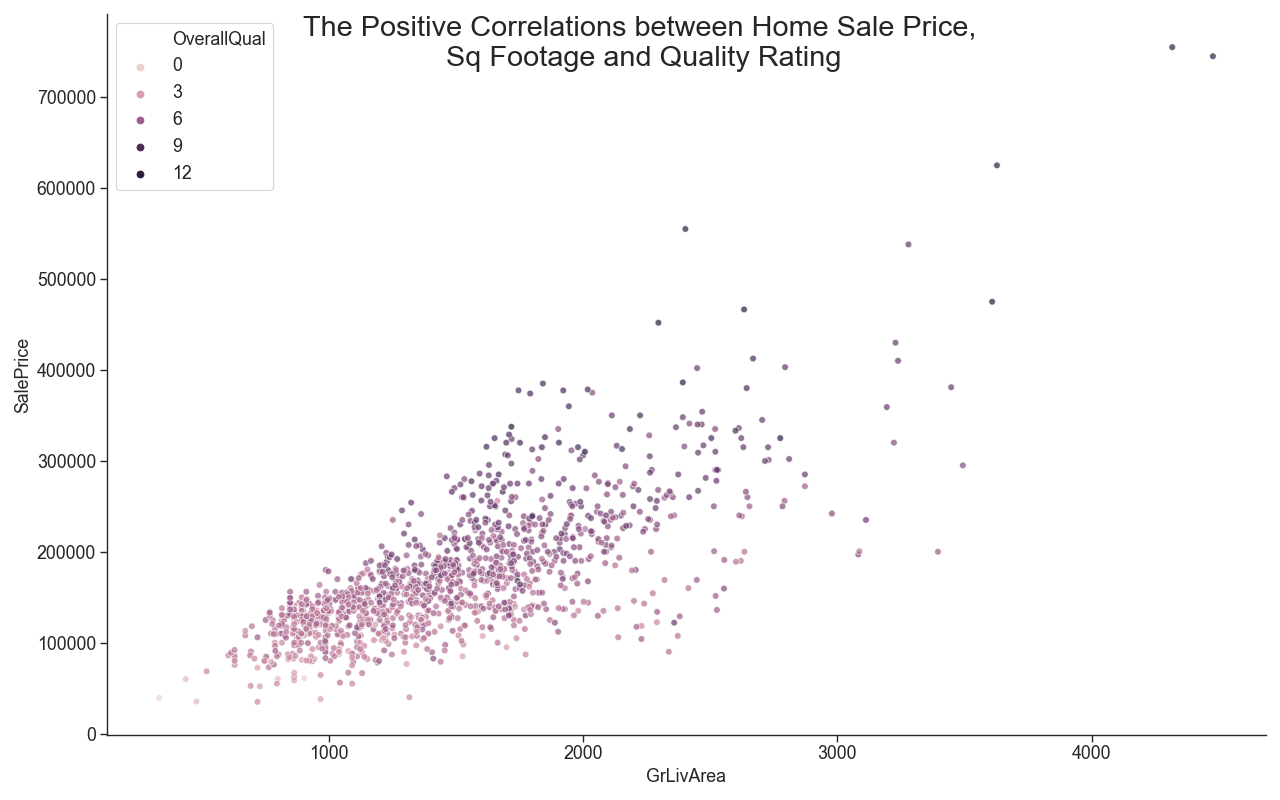
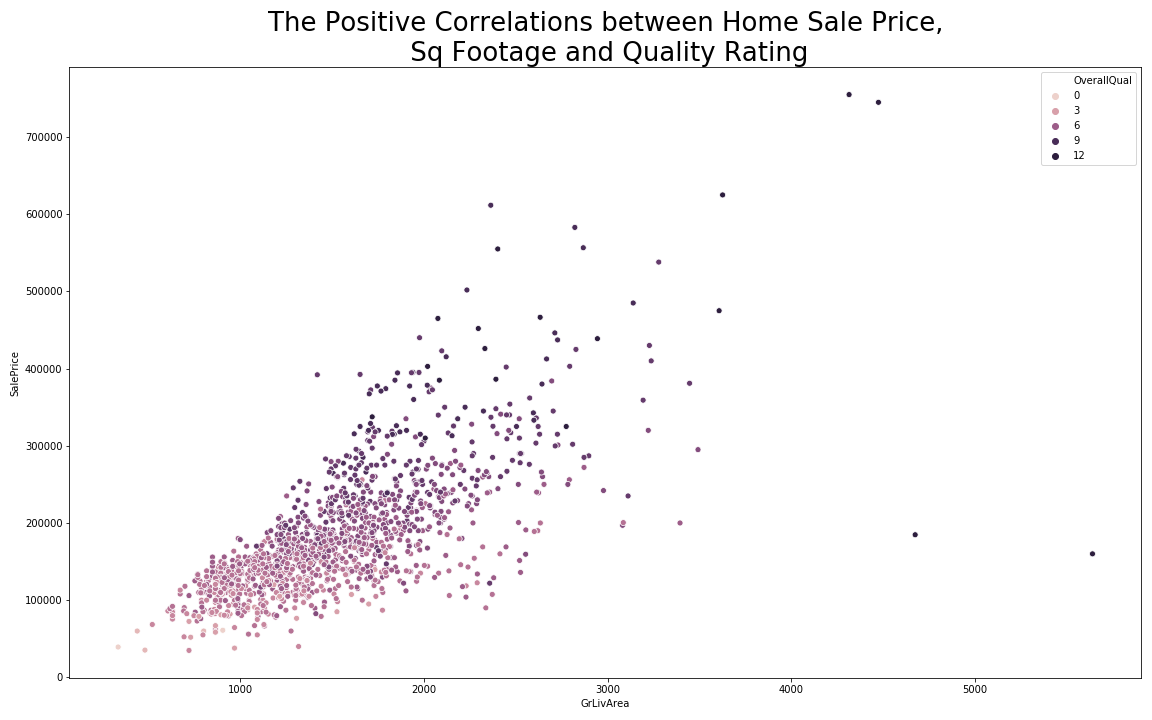
Update example images and add code to generate the example

diff --git a/README.md b/README.md
@@ -106,9 +106,10 @@ As you can see in the numbered picture below, the visualizations has the followi
 
 1. The y-axis is not immediately interpretable
 2. Axis labels and legend use raw-variable names rather than a nice label
-3. Color is not informative or easily distinguishable
+3. Legend does not use all the categories
+4. Default color is not informative or easily distinguishable
 
-The key with a great presentation visual is that it is immediately interpretable - your audience should not need to guess what the numbers mean, or interpret a variable name, or squint to distinguish between colors.
+The key with a great presentation visual is that it is immediately interpretable - your audience should not need to guess what the numbers or colors mean, or interpret a variable name, or squint to distinguish between colors.
 
 ### Enhancing Visualizations
 
@@ -120,7 +121,11 @@ Below, review the differences between the code used to generate the earlier exam
 ![example visualization with issues](images/examplevisualization.png)
 
 ```python
-# code here for early visual
+plt.figure(figsize=(16, 10)) 
+sns.scatterplot(x='GrLivArea', y='SalePrice', data = df, hue='OverallQual')
+plt.title("The Positive Correlations between Home Sale Price,\n Sq Footage and Quality Rating", fontsize=26)
+plt.tight_layout()
+plt.show()
 ```
 
 #### Polished Example:
